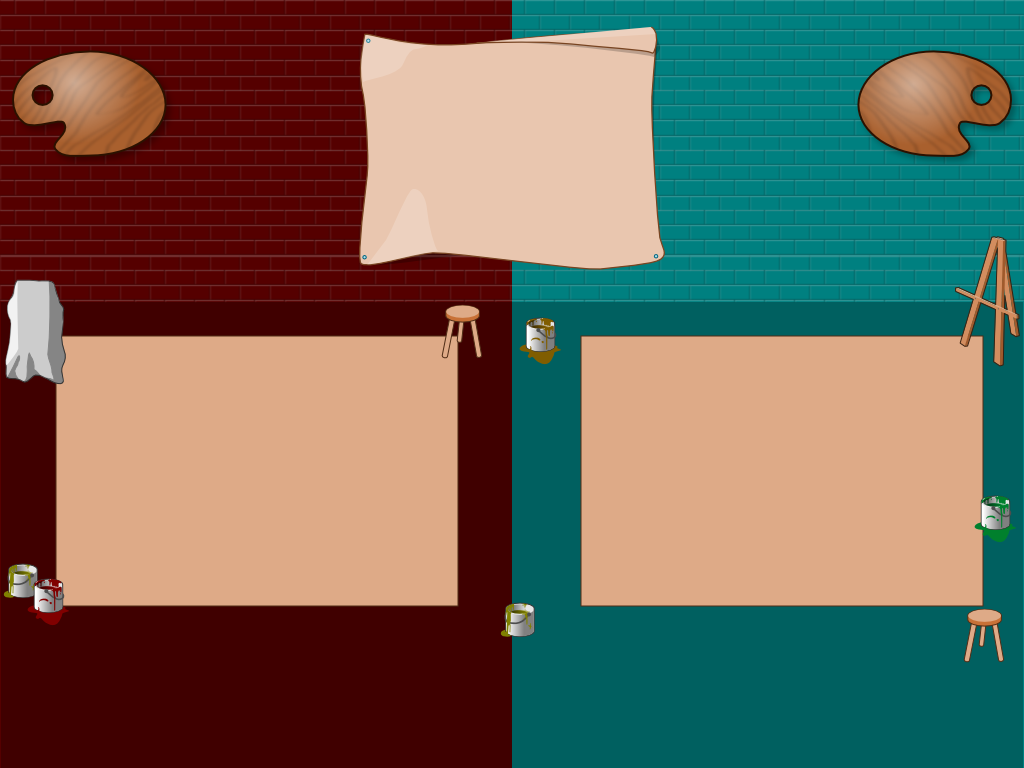
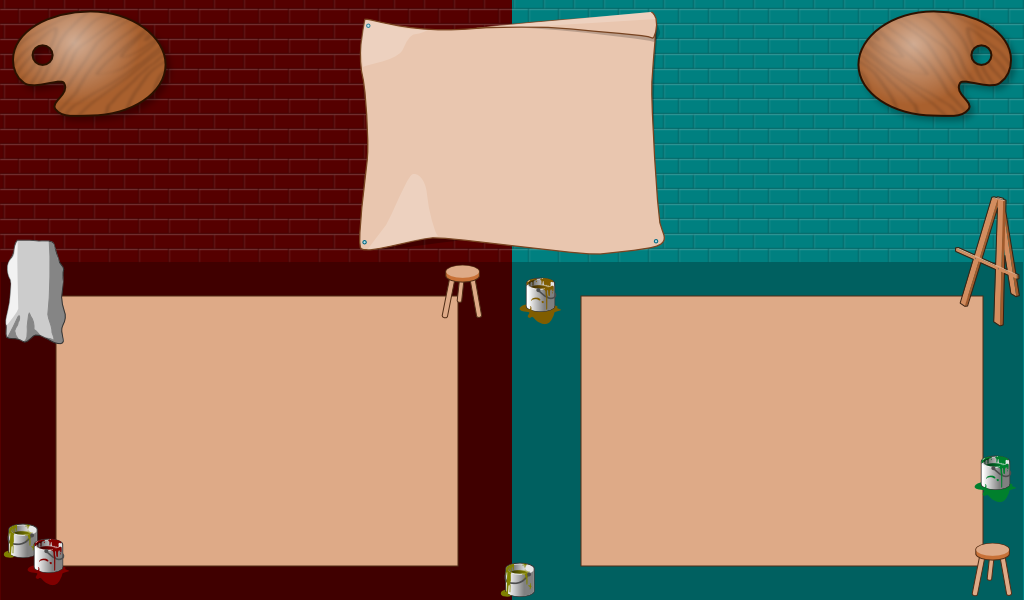
Refactor: Encapsulate player state better such that red and blue players share the same codepath New: Player control of blue cursor New: painting in your opponent's artwork

diff --git a/artattack/world.py b/artattack/world.py
@@ -1,0 +1,114 @@
+"""Represent the state of the world in 2D space and the artworks encapsulated within."""
+
+import random
+
+from .player import RedPlayer, BluePlayer
+from .artwork import *
+from .tools import Brush
+
+
+class ArtworkPosition(object):
+    """A pixel position within a pair of artworks.
+    
+    The domain is the artworks plus a 1-pixel border outside each, which allows
+    a 3x3 brush to paint the single edge pixels.
+
+    This class also provides arithmetic for cursor control that allows a cursor
+    to move from one artwork to the next.
+
+    """
+    def __init__(self, world, artwork, x, y):
+        self.world = world
+        self.artwork = artwork
+        self.x = x
+        self.y = y
+
+    def __repr__(self):
+        return '<artwork-%r, (%r, %r)>' % (self.artwork, self.x, self.y)
+
+    def get_artwork(self):
+        return self.world.artworks[self.artwork]
+
+    def pos(self):
+        """Return the pixel position within the relevant artwork."""
+        return (self.x, self.y)
+
+    def __add__(self, v):
+        """"Return a new ArtworkPosition offset by v"""
+        vx, vy = v
+
+        w = self.world.painting.painting.get_width()
+        h = self.world.painting.painting.get_height()
+        nx = self.x + vx
+        ny = max(-1, min(self.y + vy, h))
+        a = self.artwork
+
+        if nx < -1:
+            if a > 0:
+                a = max(a + (nx + 1) // (w + 2), 0)
+                nx = ((nx + 1) % (w + 2) - 1)
+            else:
+                nx = -1
+        elif nx > w:
+            if a < (len(self.world.artworks) - 1):
+                a = min(a + (nx + 1) // (w + 2), len(self.world.artworks) - 1)
+                nx = ((nx + 1) % (w + 2) - 1)
+            else:
+                nx = w
+
+        return ArtworkPosition(self.world, a, nx, ny)
+
+    def screen_rect(self):
+        a = self.world.artworks[self.artwork]
+        return a.screen_rect_for_pixel(self.pos())
+
+    @staticmethod
+    def artwork_centre(world, artwork):
+        w = world.painting.painting.get_width()
+        h = world.painting.painting.get_height()
+
+        return ArtworkPosition(world, artwork, w // 2, h // 2)
+
+
+
+class World(object):
+    def __init__(self, painting):
+        self.painting = painting
+
+        self.red_artwork = Artwork(painting, Rect(69, 305, 375, 248))
+        self.red_player = RedPlayer(self)
+        self.red_player.set_tool(Brush(self, ArtworkPosition.artwork_centre(self, 0)))
+
+        self.blue_artwork = Artwork(painting, Rect(591, 305, 375, 248))
+        self.blue_player = BluePlayer(self)
+        self.blue_player.set_tool(Brush(self, ArtworkPosition.artwork_centre(self, 1)))
+        
+        # For convenience
+        self.artworks = (self.red_artwork, self.blue_artwork)
+        self.players = (self.red_player, self.blue_player)
+
+    def give_colour(self):
+        """Give each player a random colour."""
+        palette = self.painting.get_palette()
+        for player in self.players:
+            player.palette.add_colour(random.choice(palette))
+
+    def draw(self, screen):
+        self.painting.draw(screen)
+        self.red_artwork.draw(screen)
+        self.blue_artwork.draw(screen)
+
+        self.red_player.draw(screen)
+        self.blue_player.draw(screen)
+
+    @staticmethod
+    def for_painting(filename):
+        painting = Painting(filename)
+        return World(painting)
+
+    def artwork_pixel_for_screen_pos(self, pos):
+        """Return the x, y coordinates of the pixel that corresponds to pos, or None if it is outside the Artwork bounds"""
+        for artwork in self.artworks:
+            if not artwork.rect.collidepoint(pos):
+                continue
+            return artwork.pixel_for_screen_pos(pos)

diff --git a/artattack/__main__.py b/artattack/__main__.py
@@ -19,37 +19,50 @@ from .paint import PaintColour
 from .artwork import *
 from .player import *
 from .tools import *
+from .world import World
 
 
 def load():
-    global screen, background, painting, red_artwork, red_palette, red_tool
+    global screen, background, world
     pygame.init()
-    screen = pygame.display.set_mode((1024, 768))
+    screen = pygame.display.set_mode((1024, 600))
 
     background = pygame.image.load(BACKGROUND).convert()
     PaintColour.load()
 
-    painting = Painting('desert-island2.png')
-    red_artwork = Artwork(painting, Rect(69, 343, 375, 248))
-    red_palette = PlayerPalette()
-    red_palette.add_colour(painting.get_palette()[0])
-    red_tool = Brush(red_artwork)
+    world = World.for_painting('desert-island2.png')
+    world.give_colour()
 
 
 def draw():
     screen.blit(background, (0, 0))
-    painting.draw(screen)
-    red_artwork.draw(screen)
-    red_palette.draw(screen)
-    red_tool.draw(screen)
+    world.draw(screen)
 
 
 def save_screenshot():
     pygame.image.save(screen, datetime.datetime.now().strftime('screenshots/screenshot_%Y-%m-%d_%H:%M:%S.png'))
 
 
+KEYBINDINGS = {
+    'red': {
+        K_w: 'up',
+        K_s: 'down',
+        K_a: 'left',
+        K_d: 'right',
+        K_f: 'paint',
+    },
+    'blue': {
+        K_UP: 'up',
+        K_DOWN: 'down',
+        K_LEFT: 'left',
+        K_RIGHT: 'right',
+        K_INSERT: 'paint',
+    },
+}
+
 def main():
     clock = pygame.time.Clock()
+    pygame.key.set_repeat(100, 30)
 
     keeprunning = True
     while keeprunning:
@@ -57,16 +70,18 @@ def main():
         for event in pygame.event.get():
             if event.type == QUIT:
                 return
-            elif event.type == MOUSEBUTTONDOWN:
-                if red_tool:
-                    colour = red_palette.get_selected().index
-                    red_tool.paint(colour)
             elif event.type == KEYDOWN:
                 if event.key == K_F12:
                     save_screenshot()
 
-        if red_tool:
-            red_tool.update()
+                keybindings = [
+                    (KEYBINDINGS['red'], world.red_player),
+                    (KEYBINDINGS['blue'], world.blue_player),
+                ]
+
+                for (keyset, player) in keybindings:
+                    if event.key in keyset:
+                        getattr(player, keyset[event.key])()
 
         draw()
         pygame.display.flip()

diff --git a/artattack/player.py b/artattack/player.py
@@ -1,12 +1,14 @@
 """Classes representing each player in the game."""
 
+from pygame.color import Color
+
+
 class PlayerPalette(object):
     """A player's collection of colours.
     
     One of these colours is selected for drawing at a time.
 
     """
-    LEFT_SWATCH_POSITIONS = [(52, 5), (82, 5), (111, 15), (121, 43), (97, 62), (67, 67)]
     MAX_COLOURS = 6
 
     def __init__(self):
@@ -27,12 +29,73 @@ class PlayerPalette(object):
             self.colours[self.selected] = colour
 
     def draw(self, screen):
-        for pos, c in zip(self.LEFT_SWATCH_POSITIONS, self.colours): 
+        xoff, yoff = self.DISPLAY_POS
+        for pos, c in zip(self.SWATCH_POSITIONS, self.colours): 
             if c is None:
                 continue
             x, y = pos
-            x += 8
-            y += 55
-            c.draw_swatch(screen, (x, y)) 
+            c.draw_swatch(screen, (x + xoff, y + yoff)) 
 
 
+class PlayerPaletteLeft(PlayerPalette):
+    SWATCH_POSITIONS = [(52, 5), (82, 5), (111, 15), (121, 43), (97, 62), (67, 67)]
+    DISPLAY_POS = (8, 14)
+
+class PlayerPaletteRight(PlayerPalette):
+    SWATCH_POSITIONS = [(143 - x, y) for x, y in PlayerPaletteLeft.SWATCH_POSITIONS]
+    DISPLAY_POS = (852, 14)
+
+
+
+class Player(object):
+    def __init__(self, world):
+        self.palette = self.PALETTE_CLASS()
+        self.world = world
+        self.tool = None
+
+#        self.pos = self.START_POS
+
+    def set_tool(self, tool):
+        if self.tool:
+            tool.pos = self.tool.pos
+        self.tool = tool
+
+    def draw(self, screen):
+        self.palette.draw(screen)
+        if self.tool:
+            self.tool.draw(screen, self.COLOUR)
+
+    def paint(self):
+        if self.tool:
+            colour = self.palette.get_selected().index
+            self.tool.paint(colour)
+
+    def up(self):
+        if self.tool:
+            self.tool.move_up()
+
+    def down(self):
+        if self.tool:
+            self.tool.move_down()
+
+    def left(self):
+        if self.tool:
+            self.tool.move_left()
+
+    def right(self):
+        if self.tool:
+            self.tool.move_right()
+
+    @classmethod
+    def load(cls):
+        pass
+
+
+class RedPlayer(Player):
+    COLOUR = Color('#880000')
+    PALETTE_CLASS = PlayerPaletteLeft
+
+
+class BluePlayer(Player):
+    COLOUR = Color('#3333AA')
+    PALETTE_CLASS = PlayerPaletteRight

diff --git a/artattack/tools.py b/artattack/tools.py
@@ -6,26 +6,32 @@ from pygame.color import Color
 
 class Brush(object):
     """A 3x3 brush to paint onto an Artwork"""
-    def __init__(self, artwork, pos=None):
-        self.artwork = artwork
-        if pos is None:
-            pos = (self.artwork.width // 2, self.artwork.height // 2)
+    def __init__(self, world, pos):
+        self.world = world
         self.pos = pos
-        self.color = Color('red')
 
     def topleft(self):
         """Return the top left pixel of the brush, limited to the area of the artwork."""
-        return (max(0, self.pos[0] - 1), max(0, self.pos[1] - 1))
+        x, y = self.pos.pos()
+        a = self.pos.get_artwork()
+        x = max(0, min(x - 1, a.width - 1))
+        y = max(0, min(y - 1, a.height - 1))
+        return x, y
 
     def bottomright(self):
         """Return the bottom right pixel of the brush, limited to the area of the artwork."""
-        w, h = self.artwork.artwork.get_size()
-        return (min(w, self.pos[0] + 1), min(h, self.pos[1] + 1))
+        x, y = self.pos.pos()
+        a = self.pos.get_artwork()
+        x = max(0, min(x + 1, a.width - 1))
+        y = max(0, min(y + 1, a.height - 1))
+        return x, y
 
-    def draw(self, screen):
-        r = self.artwork.screen_rect_for_pixel(self.topleft())
-        r.union_ip(self.artwork.screen_rect_for_pixel(self.bottomright()))
-        pygame.draw.rect(screen, self.color, r, 1)
+    def draw(self, screen, colour):
+        a = self.pos.get_artwork()
+        r = a.screen_rect_for_pixel(self.topleft())
+        r2 = a.screen_rect_for_pixel(self.bottomright())
+        r.union_ip(r2)
+        pygame.draw.rect(screen, colour, r, 1)
 
     def update(self):
         pos = pygame.mouse.get_pos()
@@ -33,10 +39,23 @@ class Brush(object):
         if px:
             self.pos = px
 
+    def move_left(self):
+        self.pos += (-1, 0)
+
+    def move_right(self):
+        self.pos += (1, 0)
+
+    def move_up(self):
+        self.pos += (0, -1)
+
+    def move_down(self):
+        self.pos += (0, 1)
+
     def paint(self, colour):
         left, top = self.topleft()
         right, bottom = self.bottomright()
+        artwork = self.pos.get_artwork()
         for j in range(top, bottom + 1):
             for i in range(left, right + 1):
-                self.artwork.paint_pixel((i, j), colour)
+                artwork.paint_pixel((i, j), colour)
 

diff --git a/artattack/artwork.py b/artattack/artwork.py
@@ -32,7 +32,7 @@ class Painting(object):
         return self.palette 
 
     def draw(self, screen):
-        screen.blit(self.surface, (390, 70))
+        screen.blit(self.surface, (390, 55))
 
 
 class Artwork(object):
